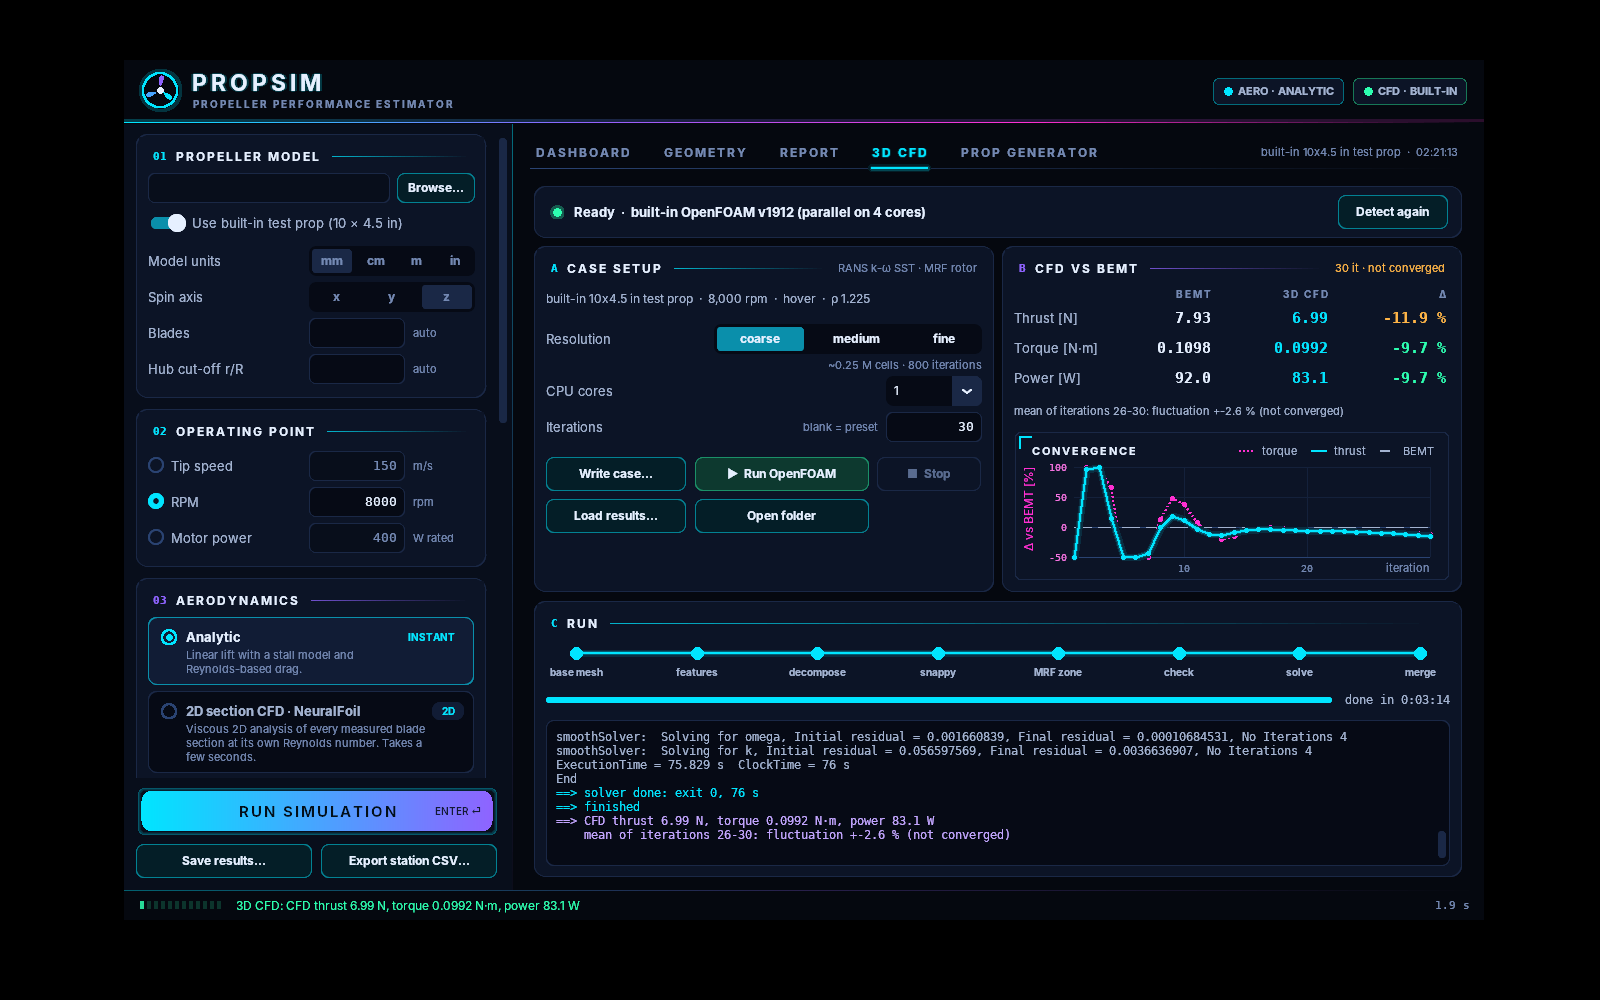
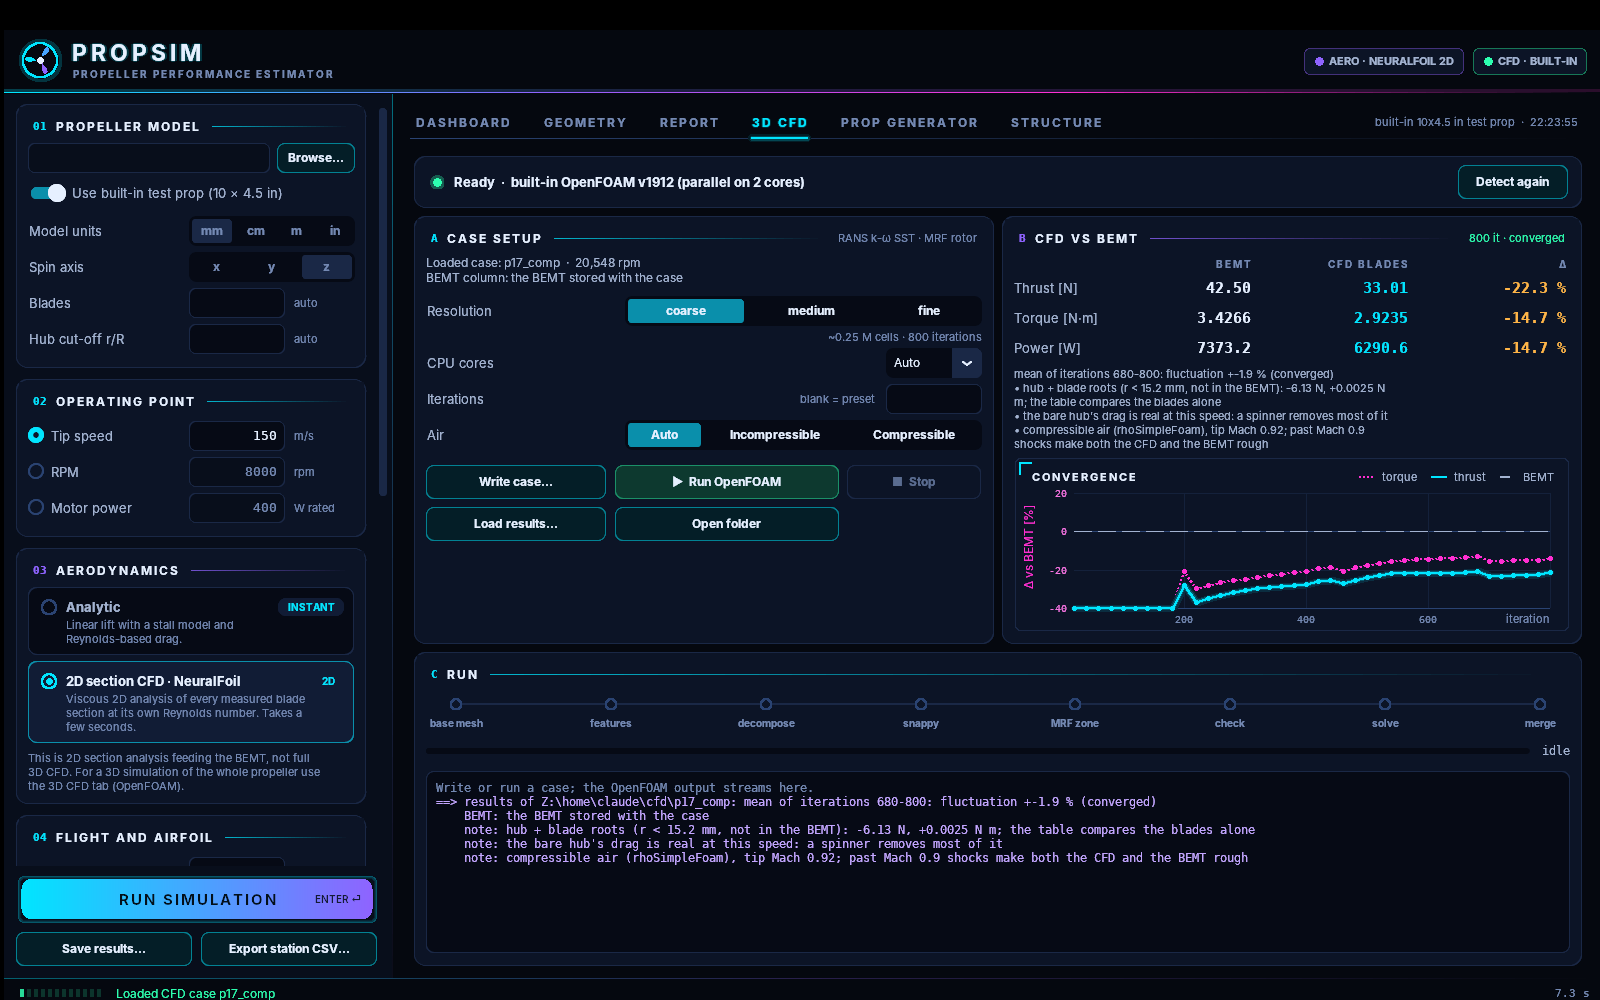
Add files via upload

Changed region(s): [[0.0, 0.031, 1.0, 1.0], [0.875, 0.837, 0.9062, 0.868]]

diff --git a/README.md b/README.md
@@ -42,15 +42,23 @@ It works as a Windows desktop app and as Python command-line tools. You can pick
 
 ![Prop Generator](screenshots/prop-generator.png)
 
-*Prop Generator: a 10 in titanium (SLM) prop for 150 m/s on a 14S motor. The swept blade has leading-edge tubercles; the hub has an ogive spinner, counterbored mounting holes and a blind bore. The generator moved a resonant blade mode itself, and it warns that full throttle at lower airspeeds would exceed the motor's torque limit.*
+*Prop Generator: a 10 in titanium (SLM) prop for 150 m/s on a 14S motor. The swept blade has leading-edge tubercles; the hub has an ogive spinner, counterbored mounting holes, a blind bore and a root fillet. The generator moved a resonant blade mode itself (cyan note), and it warns that full throttle at lower airspeeds would exceed the motor's torque limit, with the throttle to use (amber note).*
+
+![Design brief settings](screenshots/generator-settings.png)
+
+*The design brief, top to bottom: goal, power source and flight condition with the new* Stall speed *and* At low speed*; hub options (spinner, blind bore, D-flat, set screw, nut pocket, mounting holes on a rotatable bolt circle, screw heads, root fillet shape and length); material and strength (supplier, process, material, safety factor, vibration load,* Design within strength limits*,* Avoid resonance*,* If out of reach*); experimental blade features.*
 
 ![Structure tab](screenshots/structure.png)
 
-*Structure tab: the blade coloured by safety factor with the weakest spot marked, the stresses along the blade, the deflection and twist under load, and a plain-language diagnosis.*
+*The new Structure tab: the blade coloured by safety factor with the weakest spot marked, the stresses along the blade, the deflection and twist under load, and a plain-language diagnosis of what limits the blade and how to fix it.*
 
 ![Vibration modes and Campbell diagram](screenshots/structure-vibration.png)
 
-*Each vibration mode can be animated; the Campbell diagram shows the modes against the 1P–4P excitation lines over the rpm range.*
+*Structure tab, Vibration modes: each flap, lag and torsion mode can be animated; the Campbell diagram shows the modes against the 1P–4P excitation lines over the rpm range.*
+
+![3D CFD tab](screenshots/cfd-tab.png)
+
+*3D CFD with the built-in OpenFOAM: a compressible (rhoSimpleFoam) run of a 10x17.2 in prop at 150 m/s (tip Mach 0.92), compared with the BEMT, with the convergence history.*
 
 ## Getting started
 
